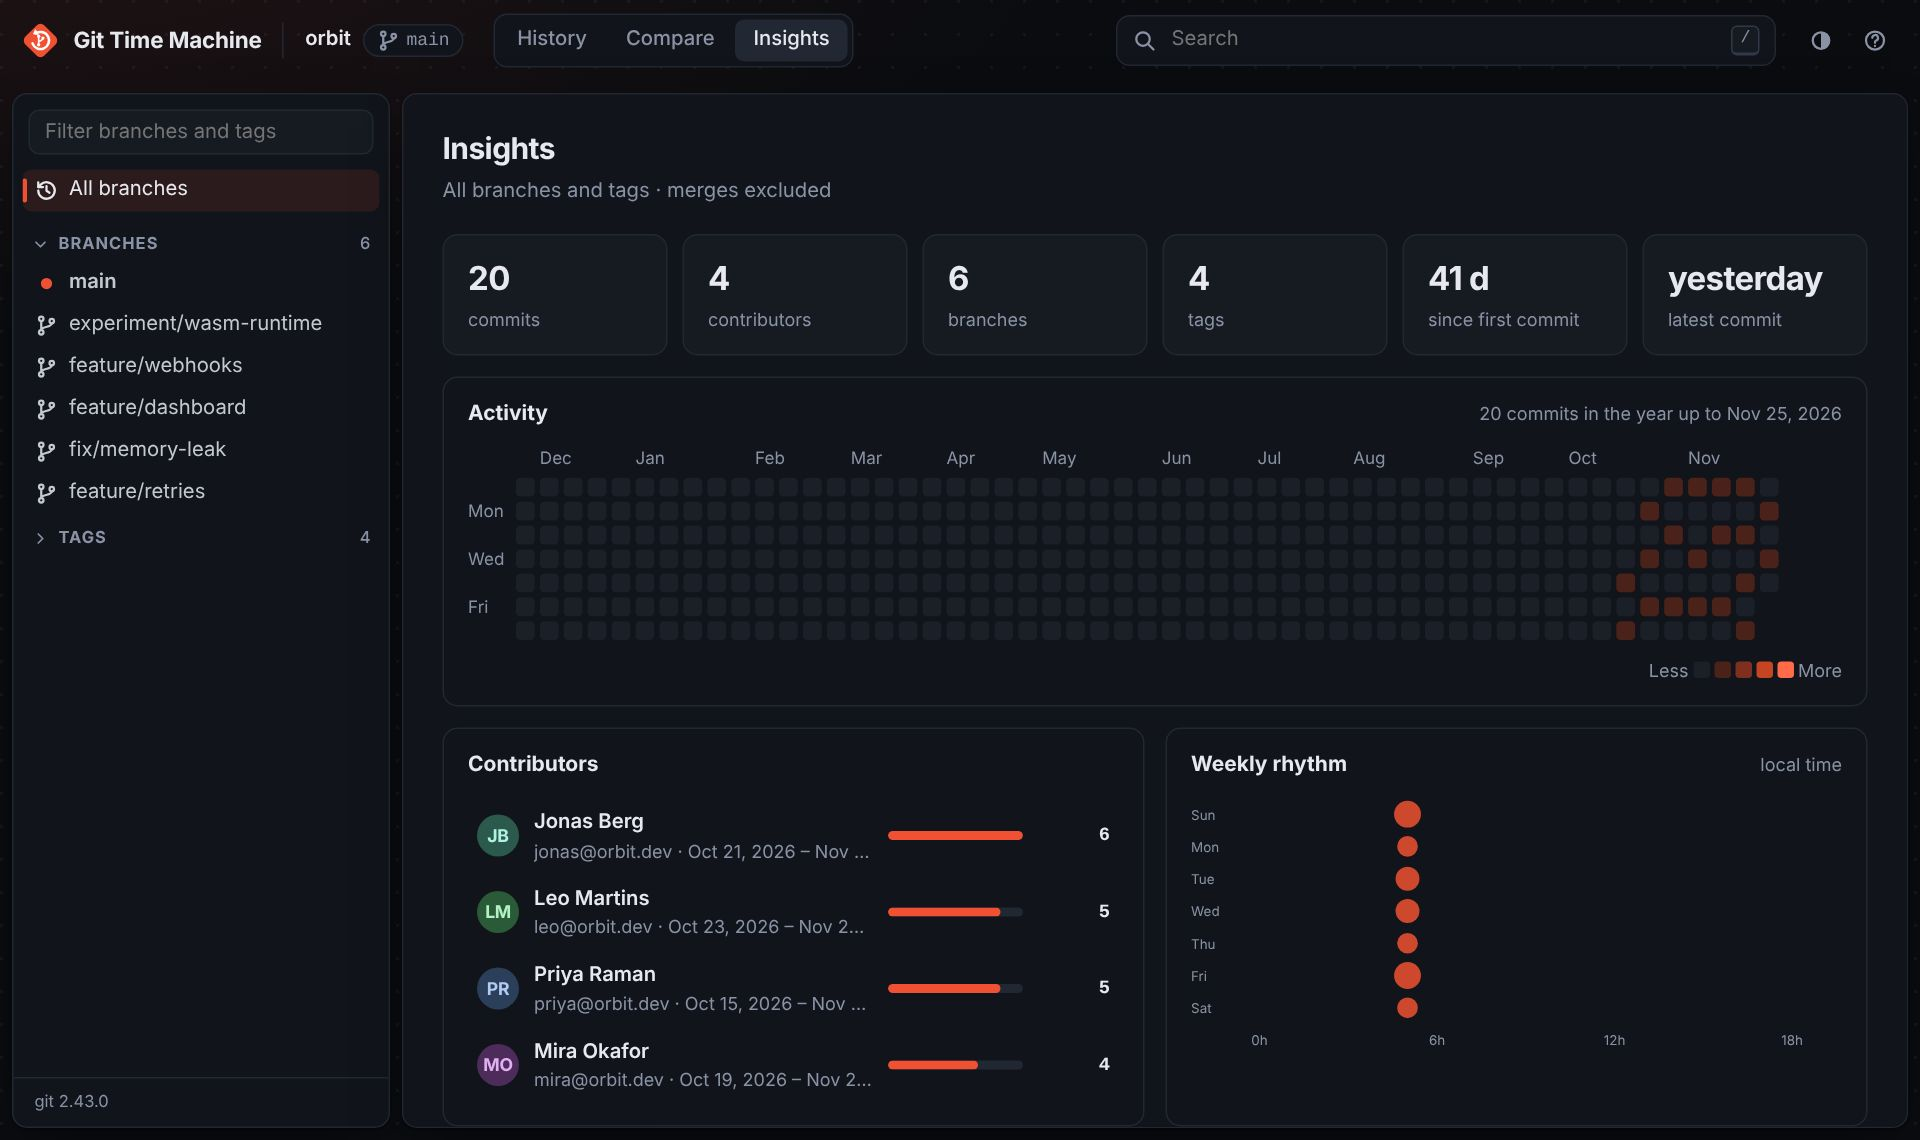
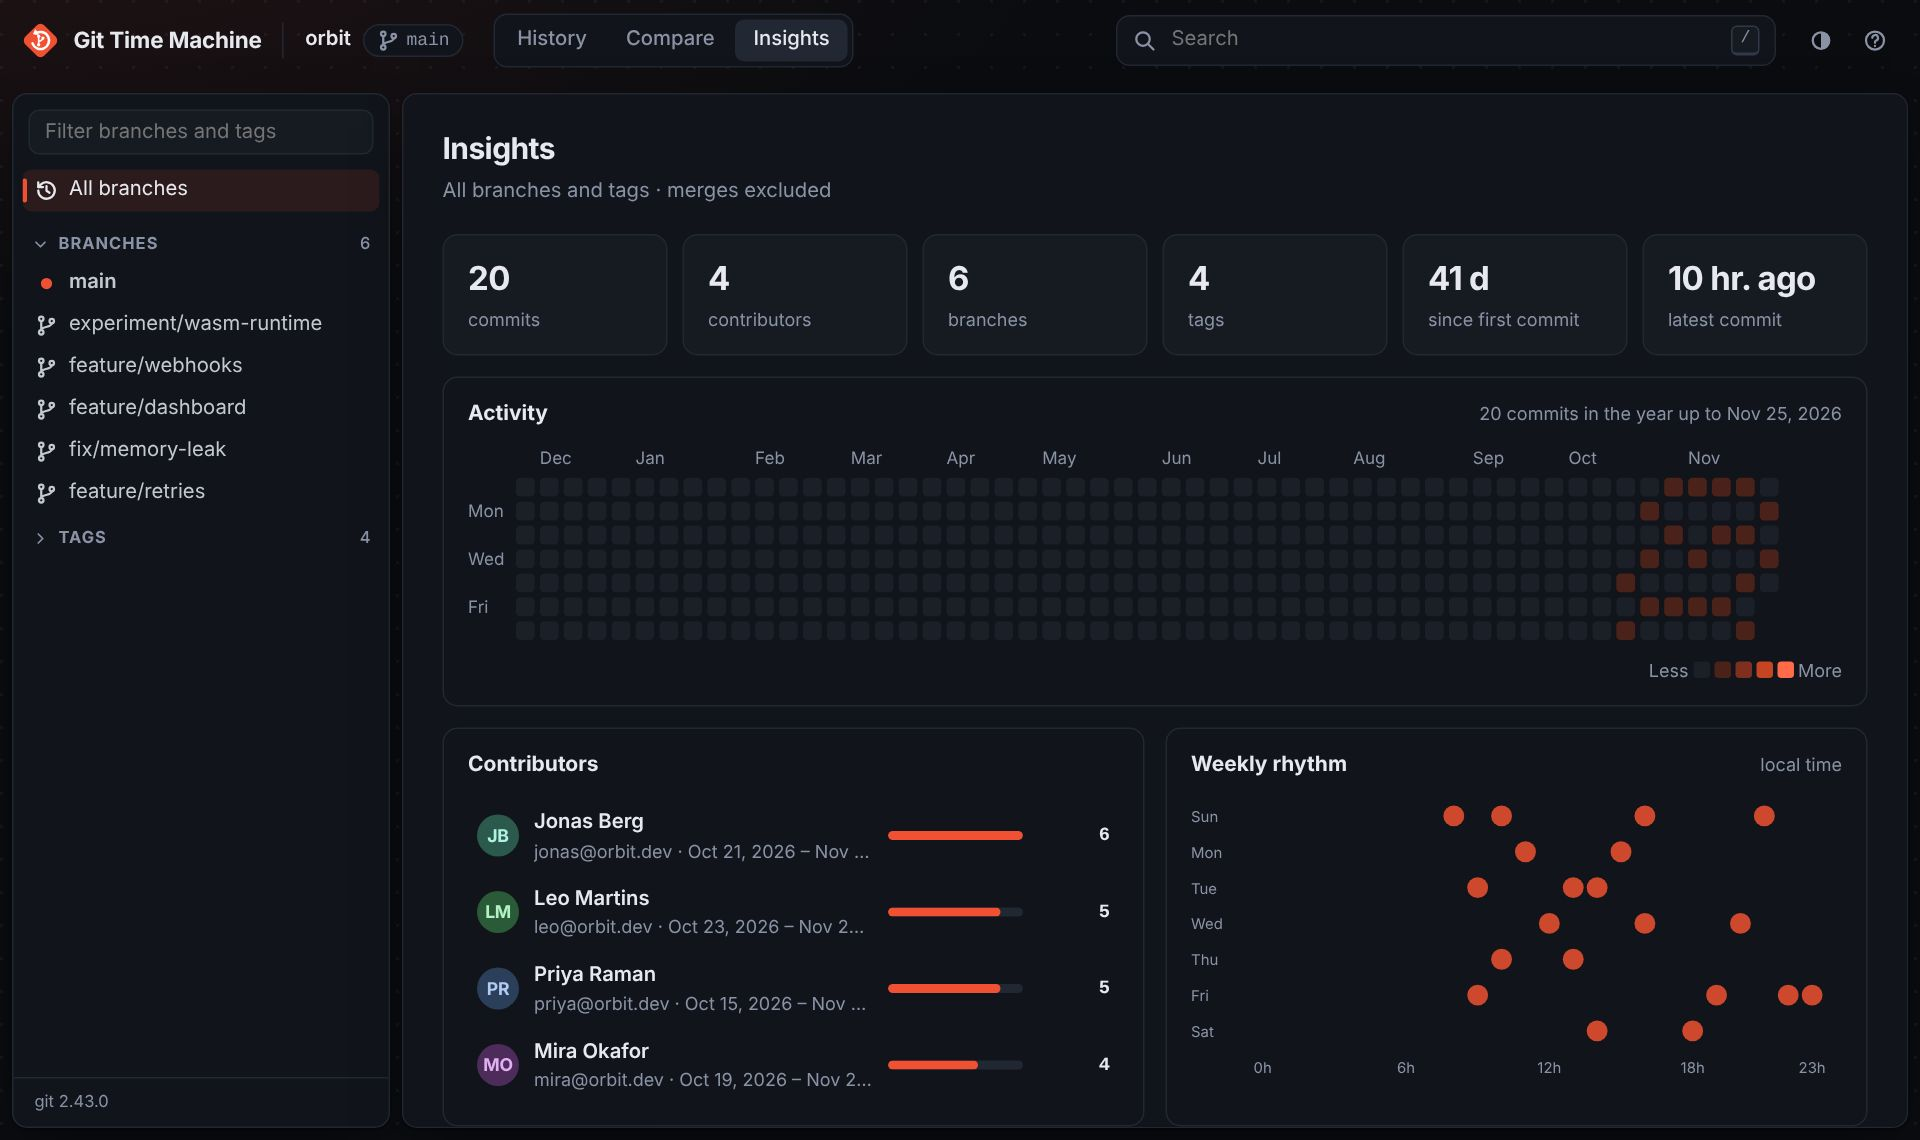
Insights: fit all 24 hours of the weekly rhythm chart without scrolling
The chart had a 520px minimum width, wider than its card on most desktop
screens, so the last hours were scrolled out of view. Narrower hour
columns and slightly smaller dots let it fit; it still scrolls on phones.
Also refresh the guide's Insights screenshot.

diff --git a/src/public/js/insights.js b/src/public/js/insights.js
@@ -50,7 +50,7 @@ function heatmap(days, endTs) {
 
 function punchcard(punch) {
   const max = Math.max(1, ...punch.flat());
-  const cw = 22;
+  const cw = 16;
   const rh = 24;
   const w = 40 + 24 * cw + 12; // room for the last hour label
   const h = 7 * rh + 20;
@@ -60,7 +60,7 @@ function punchcard(punch) {
     for (let hr = 0; hr < 24; hr++) {
       const v = punch[d][hr];
       if (!v) continue;
-      const r = 2 + Math.sqrt(v / max) * 8;
+      const r = 2 + Math.sqrt(v / max) * 5; // at most 7, so neighbouring hours never overlap
       svg += `<circle cx="${40 + hr * cw + cw / 2}" cy="${d * rh + rh / 2}" r="${r.toFixed(1)}"><title>${plural(v, "commit")} · ${DAYS[d]} ${hr}:00</title></circle>`;
     }
   }

diff --git a/src/public/app.css b/src/public/app.css
@@ -2239,7 +2239,7 @@ mark.del {
 .punch {
   display: block;
   width: 100%;
-  min-width: 520px;
+  min-width: 360px;
 }
 
 .punch circle {

diff --git a/CHANGELOG.md b/CHANGELOG.md
@@ -5,6 +5,7 @@ All notable changes to git-tm. Each version is on [npm](https://www.npmjs.com/pa
 ## Unreleased
 
 - Stopping git-tm (Ctrl+C or SIGTERM) right after it starts now always exits cleanly. Found by the new command-line tests from @avaldivieso-meraki.
+- The Weekly rhythm chart in Insights fits all 24 hours on desktop without scrolling.
 
 ## v1.1.1
 
